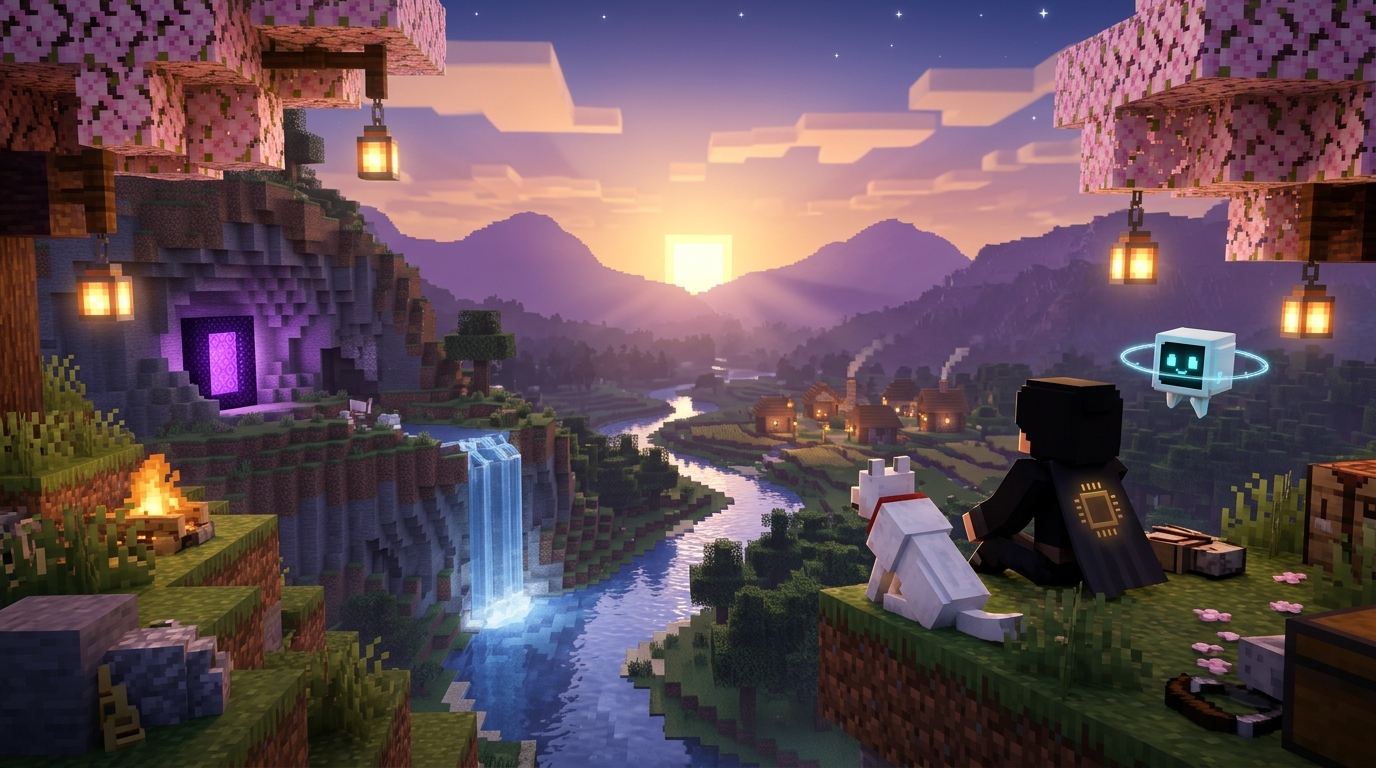
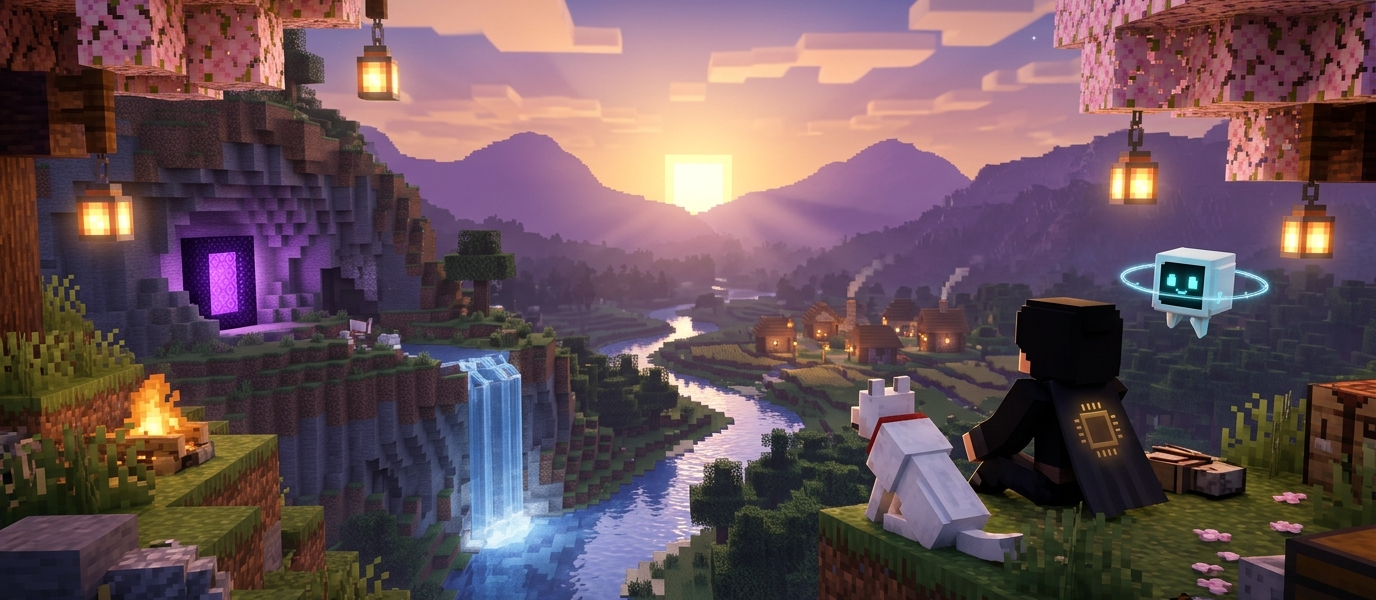
resize image

diff --git a/README.md b/README.md
@@ -1,7 +1,7 @@
 <div align="center">
 
 <!-- HERO BANNER: TWILIGHT CHERRY GROVE REALM -->
-<img src="./assets/minecraft_hero_banner.png" alt="Minecraft Twilight Realm Banner — Pradeep Selladurai" width="100%" />
+<img src="./assets/minecraft_hero_banner.png" alt="Minecraft Twilight Realm Banner — Pradeep Selladurai" width="760" style="max-width: 100%; border-radius: 8px;" />
 
 <br><br>
 
